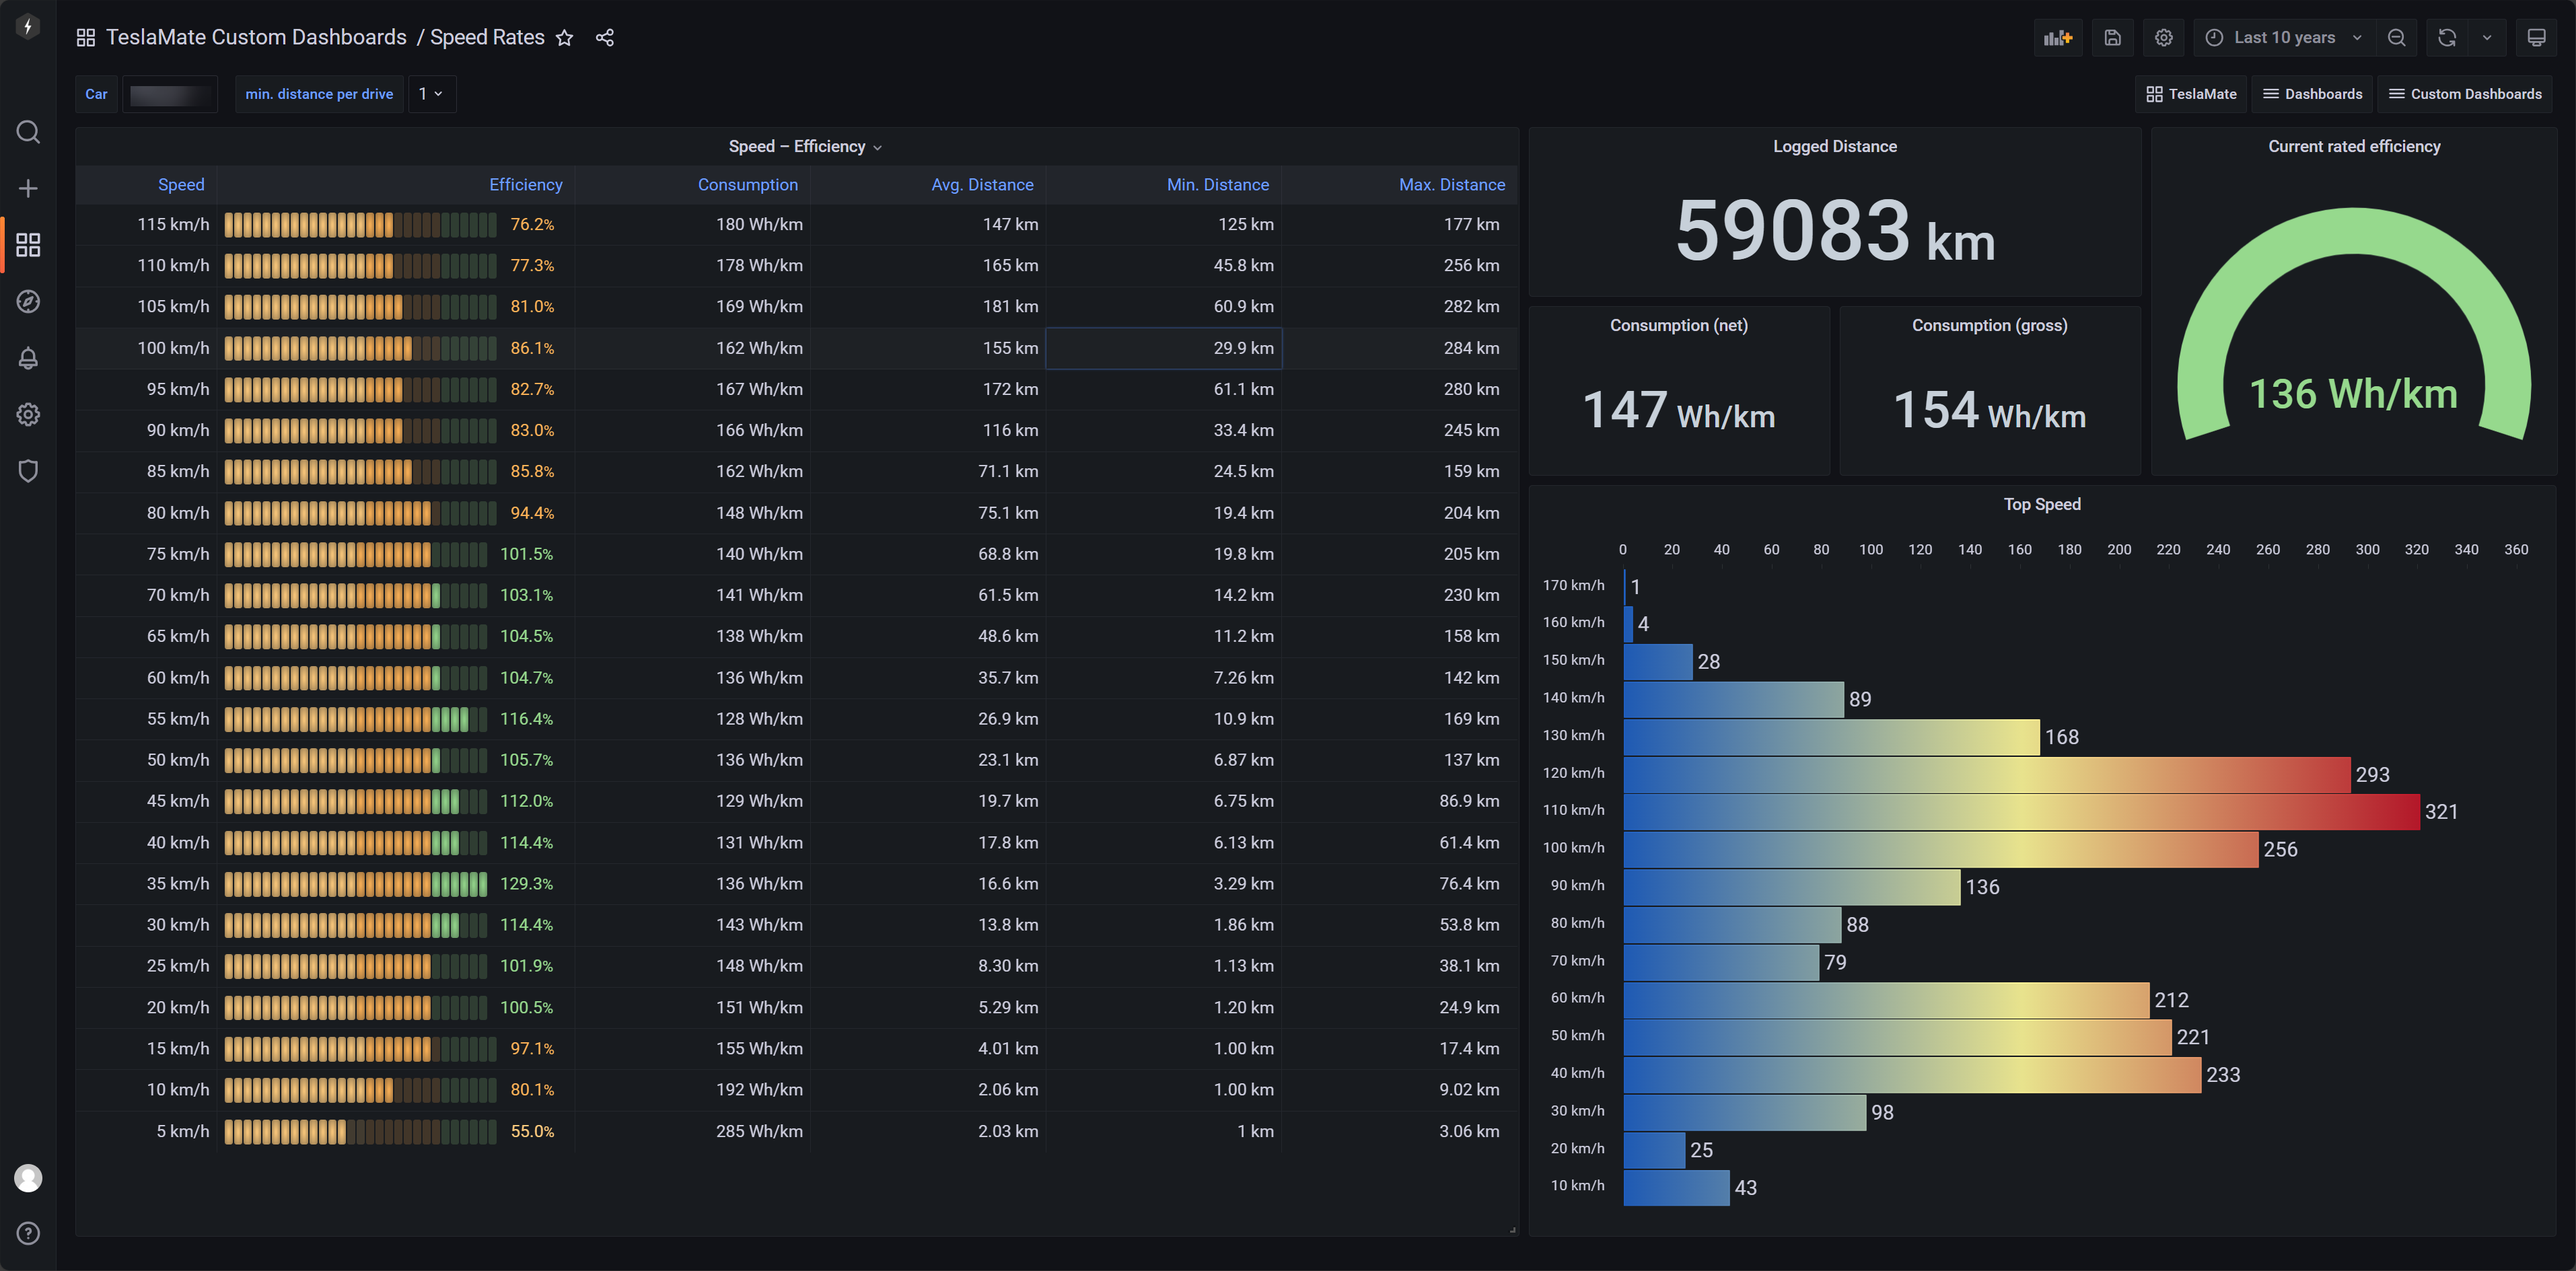
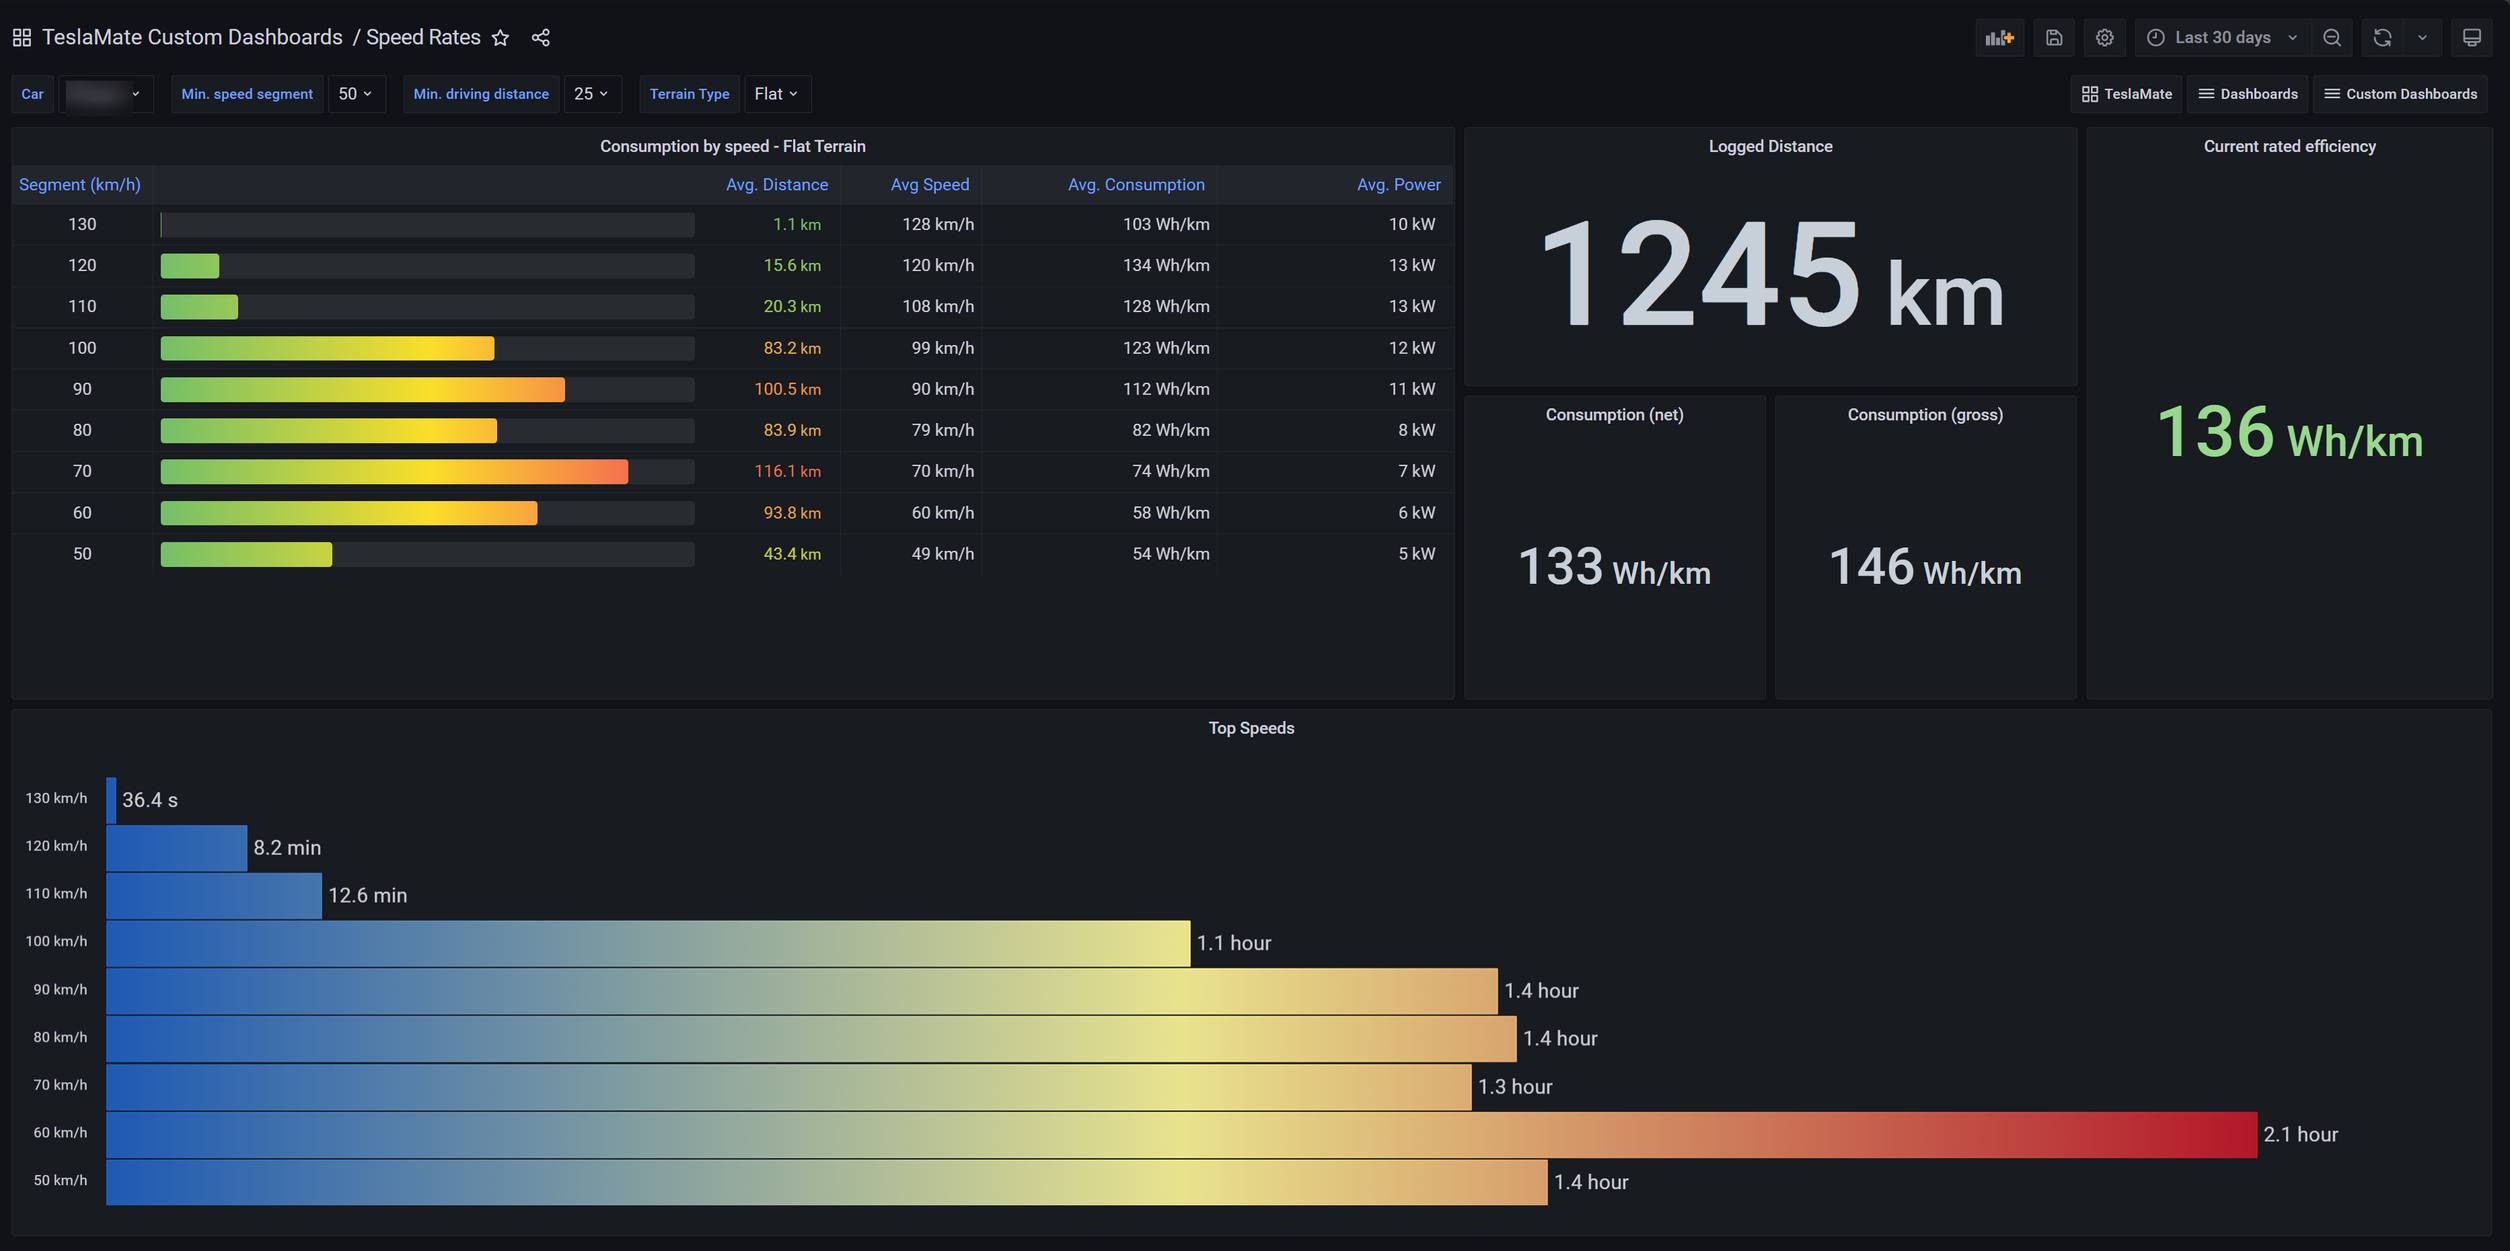
Update Readme and screenshot for speed rates dashboard

diff --git a/README.md b/README.md
@@ -219,8 +219,8 @@ The dashboard shows a table with the selected period, time driven, distance, num
 
 ### [Speed Rates](./dashboards/SpeedRates.json)
 
-In this dashboard you can browse the efficiency of the car, in sections based on distance per hour. This way you can see at what speeds the car is most efficient in general.
-Likewise, you can see the number of times it has been driven at an average speed and also the estimated average consumption in general.
+In this dashboard you can browse the speed rates by segments, based on terrain type: Flat, Uphill or Downhill. This way you can see the average consumtion by speed and its average distance.
+Likewise, you can see the Top speeds you reached and how long it lasted.
 
 ![Speed Rates](./screenshots/SpeedRates.png)
 
